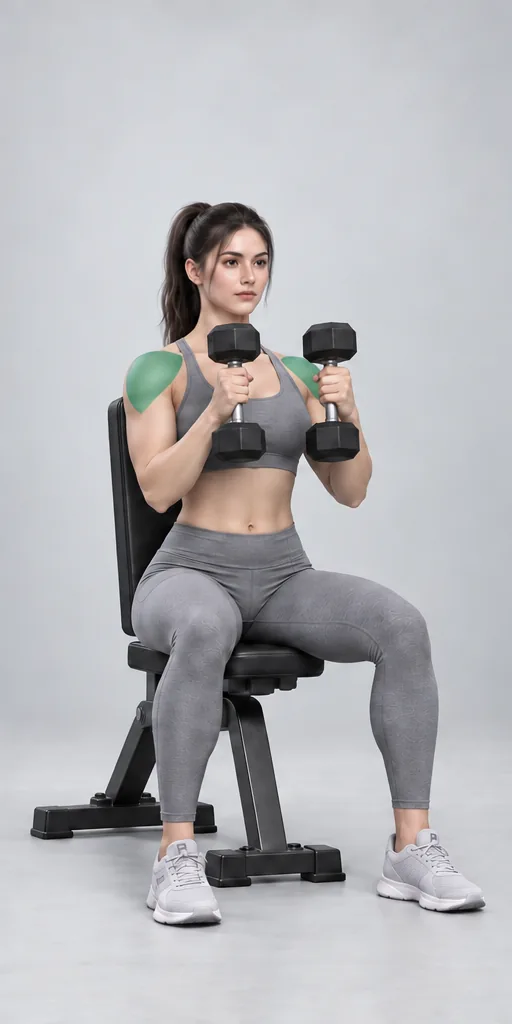
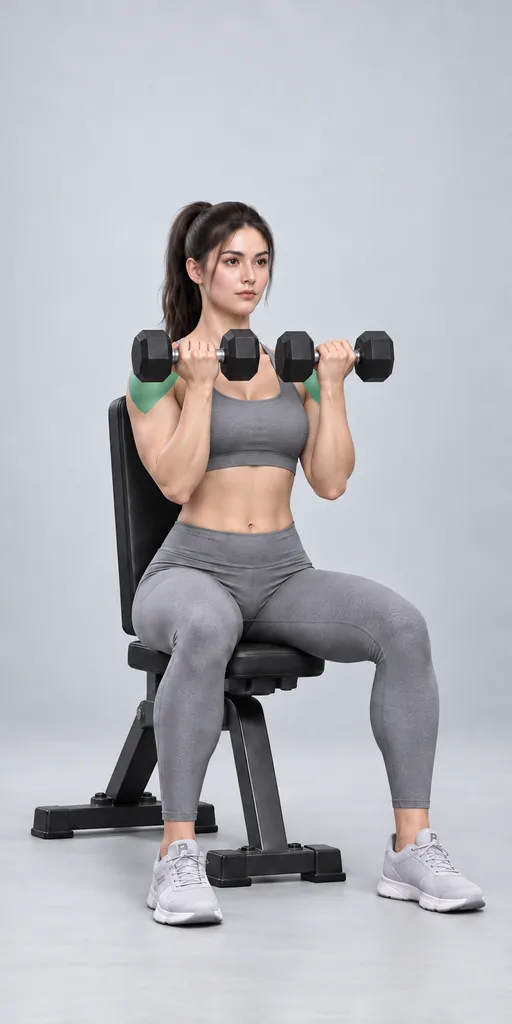
fix: correct Arnold start grip and rear fly variant

diff --git a/tools/exercises/test_process_guidance_sheet.py b/tools/exercises/test_process_guidance_sheet.py
@@ -244,12 +244,43 @@ console.log(JSON.stringify(context.result));"""
                                        "--jobs", success=False)
                 self.assertIn("invalid layout", result.stderr)
 
-    def test_arnold_prompt_uses_manifest_start_without_conflicting_catalog_start(self):
-        job = json.loads(self.run_tool("guidance_prompt.mjs", "shoulder_arnold", "female").stdout)
-        self.assertIn("掌心相对起始", job["prompt"])
-        self.assertIn("旋转推起", job["prompt"])
-        self.assertIn("头顶结束", job["prompt"])
-        self.assertNotIn("掌心朝向自己", job["prompt"])
+    def test_arnold_prompt_teaches_palms_self_start_and_rotated_overhead_finish(self):
+        for gender in ("female", "male"):
+            with self.subTest(gender=gender):
+                job = json.loads(self.run_tool("guidance_prompt.mjs", "shoulder_arnold", gender).stdout)
+                prompt = job["prompt"]
+                for term in ("掌心向己起始", "two horizontal dumbbells", "in front of the upper chest",
+                             "elbows in front", "palms facing the model's own face and torso",
+                             "Rotate smoothly outward", "palms facing forward", "旋转推起", "头顶结束"):
+                    self.assertIn(term, prompt)
+                self.assertNotIn("掌心相对起始", prompt)
+                self.assertEqual((job["id"], job["gender"], job["sheetPath"]),
+                                 ("shoulder_arnold", gender,
+                                  f".work/exercise-guidance/shoulder_arnold/{gender}-sheet.png"))
+
+    def test_arnold_without_movement_reference_falls_back_to_full_catalog_start(self):
+        entries = json.loads((self.repo / "tools/exercises/guidance.json").read_text(encoding="utf-8"))["exercises"]
+        arnold = next(entry for entry in entries if entry["id"] == "shoulder_arnold")
+        arnold.pop("movementReference", None)
+        arnold["captions"][0] = "掌心向己起始"
+        self.write_manifest([arnold])
+        for gender in ("female", "male"):
+            with self.subTest(gender=gender):
+                prompt = json.loads(self.run_tool("guidance_prompt.mjs", "--manifest", self.manifest,
+                                                  "shoulder_arnold", gender).stdout)["prompt"]
+                self.assertIn("坐姿，哑铃置于胸前，掌心朝向自己。", prompt)
+                self.assertIn("至头顶时掌心朝前。", prompt)
+
+    def test_rear_fly_prompt_selects_high_pulleys_and_opposite_crossed_connections(self):
+        for gender in ("female", "male"):
+            with self.subTest(gender=gender):
+                prompt = json.loads(self.run_tool("guidance_prompt.mjs", "shoulder_cable_rear_fly", gender).stdout)["prompt"]
+                for term in ("two high pulleys", "above head height", "each hand holds the opposite-side handle",
+                             "arms crossed in front of the torso", "both separate taut cables",
+                             "shoulder level", "soft elbow bend", "crossed opposite-pulley cable connections"):
+                    self.assertIn(term, prompt)
+                self.assertNotIn("mid-height", prompt)
+                self.assertNotIn("高位或中位", prompt)
 
     def test_prompt_prefers_manifest_movement_reference_over_catalog_variants(self):
         selected = "Start from a high-bar squat with both heels planted."
